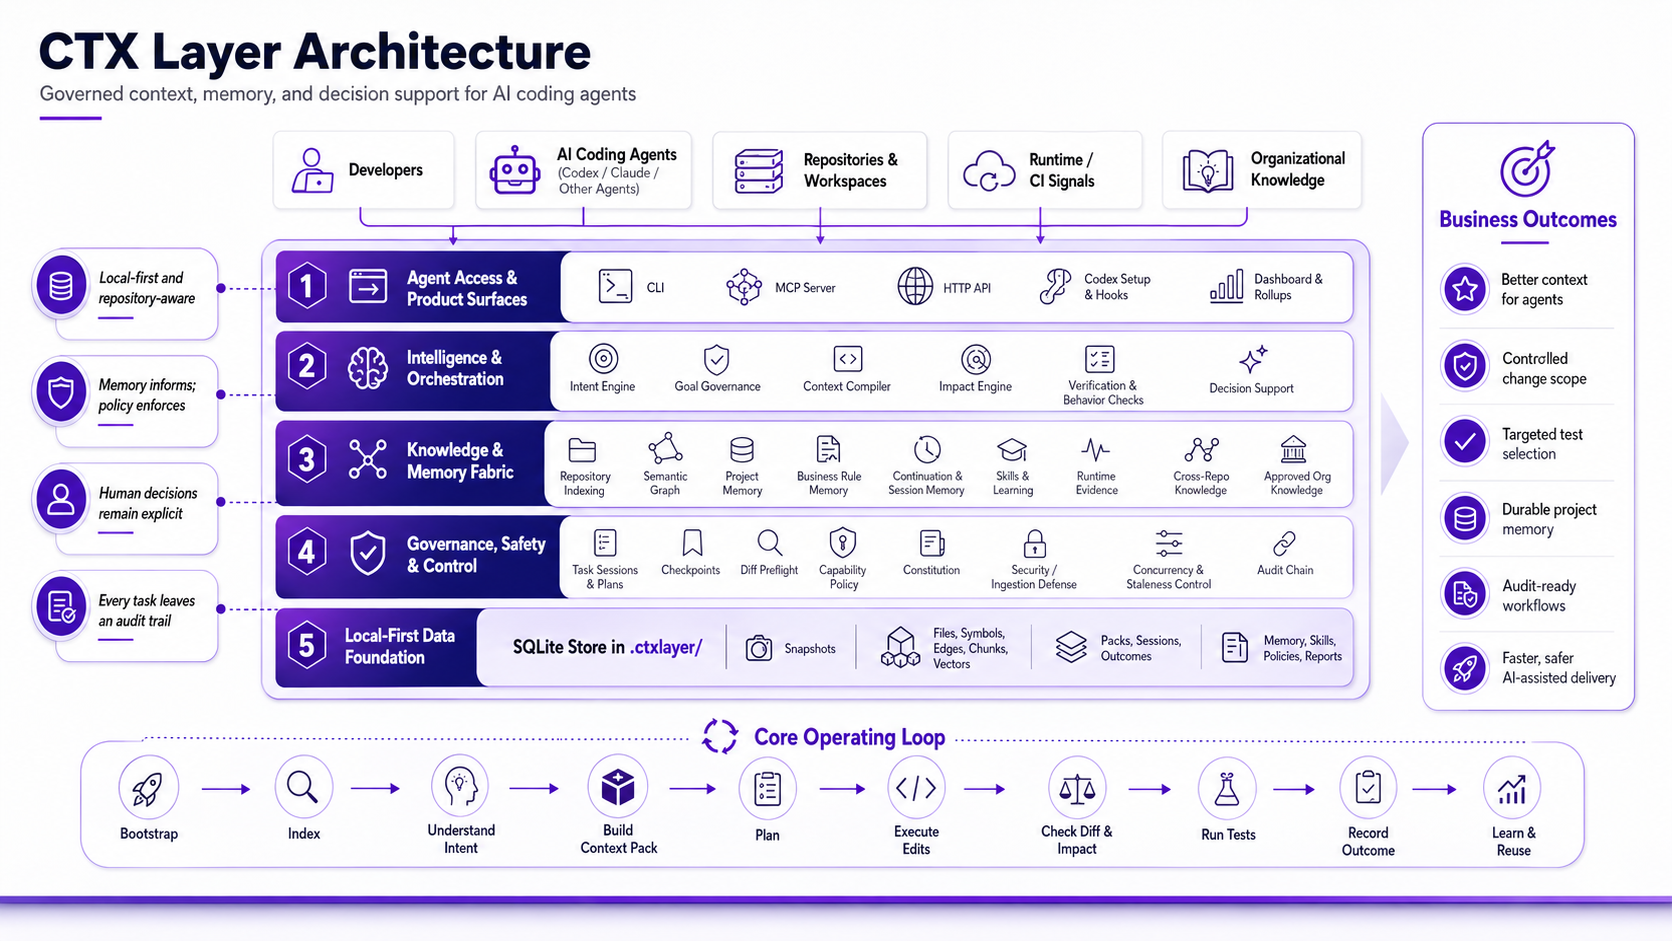
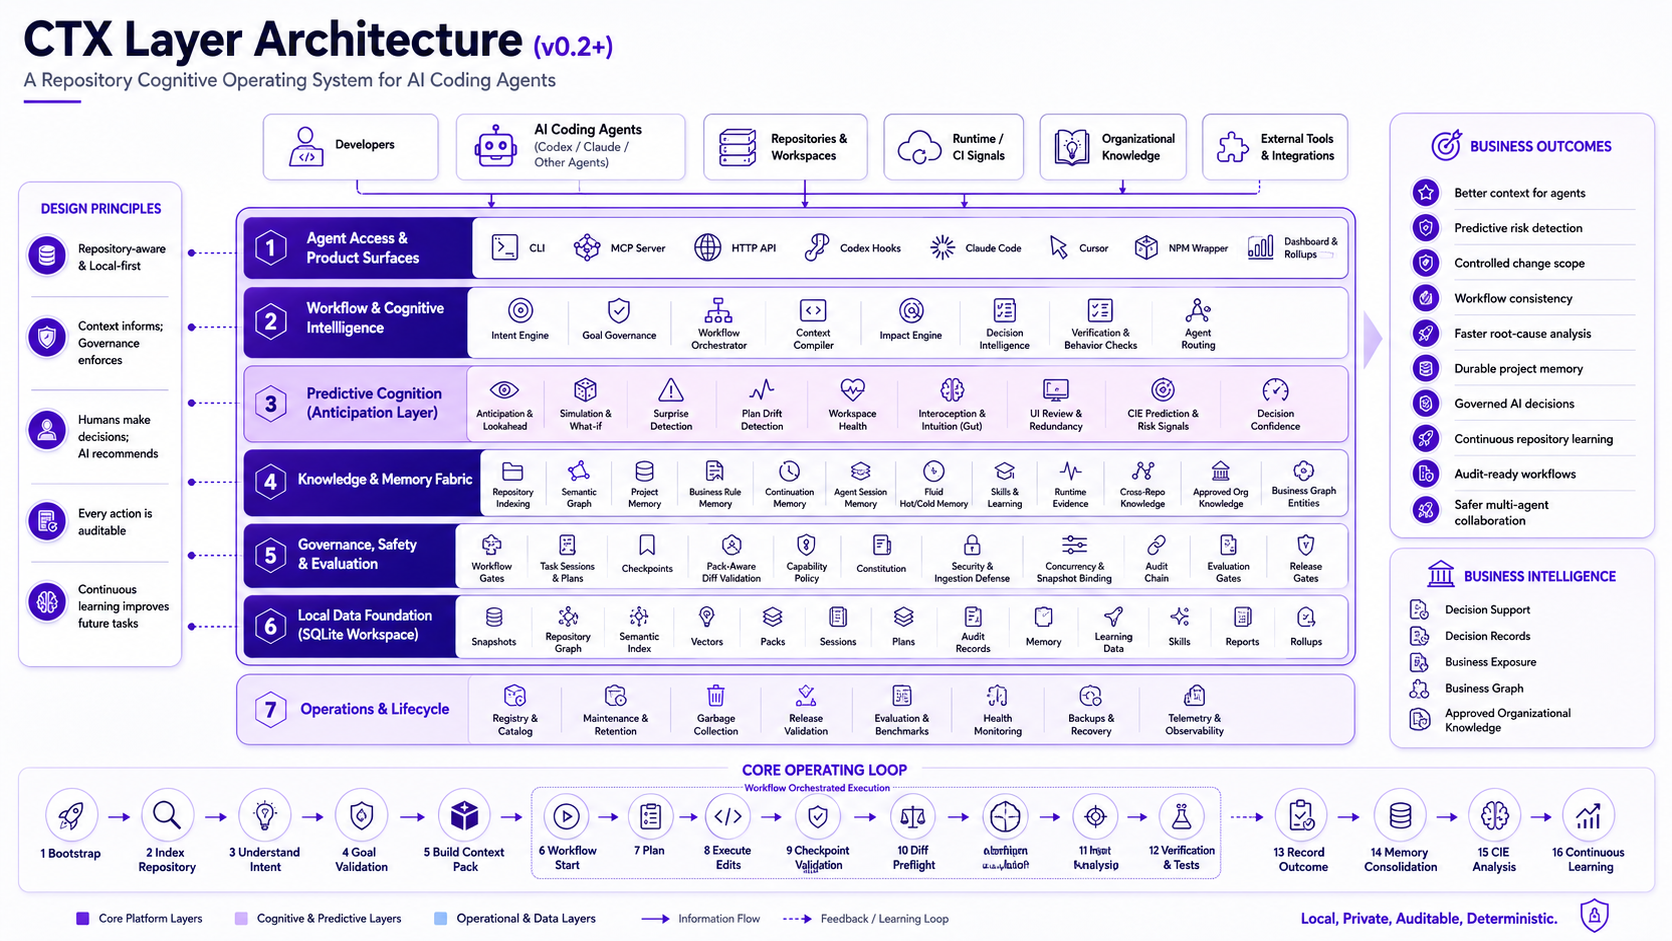
Reposition release README for AI coding agents

Changed region(s): [[0.0, 0.0, 1.0, 0.9862]]

diff --git a/README.md b/README.md
@@ -1,114 +1,139 @@
 # CTX Layer
 
-## The Governed Execution Layer for AI Coding Agents
+[![Release](https://img.shields.io/badge/release-0.2.0a8-blue)](https://github.com/abhilashsblai/ctxlayer-release/releases/tag/v0.2.0a8)
+[![Python](https://img.shields.io/badge/python-%3E%3D3.11-blue)](#requirements)
+[![License](https://img.shields.io/badge/license-proprietary-lightgrey)](LICENSE)
+[![MCP](https://img.shields.io/badge/MCP-ready-6f42c1)](#mcp-integration)
+[![AGENTS.md](https://img.shields.io/badge/AGENTS.md-supported-6f42c1)](#daily-agent-workflow)
+[![Local First](https://img.shields.io/badge/local--first-SQLite-2ea44f)](#safety-notes)
 
-CTX Layer transforms AI coding agents from code generators into governed
-software engineering systems.
+CTX Layer is a Repository Cognitive Operating System for AI coding agents.
+
+It gives Codex, Claude Code, Cursor, Gemini CLI, MCP clients, and other
+software engineering agents long-term repository memory, workflow
+orchestration, deterministic governance, impact analysis, predictive cognition,
+and continuous learning.
 
 Copyright (c) 2026 Abhilash Pillai. All rights reserved.
 
 Developed by Abhilash Pillai.
 
-CTX Layer sits between an AI coding agent and your codebase.
-
-It provides context intelligence, workflow orchestration, execution governance,
-impact awareness, organizational intelligence, auditability, and continuous
-improvement.
-
-Without CTX Layer, AI agents generate code.
-
-With CTX Layer, AI agents operate as governed software engineers.
-
-CTX Layer is not a coding agent. It is a governed execution layer that augments
-coding agents such as Codex, Claude Code, Cursor, Aider, and MCP-enabled agent
-systems. The agent writes code; CTX Layer governs how the agent understands,
-plans, validates, learns, and improves.
-
-![CTX Layer governed execution architecture](docs/assets/CTXLayer.png)
-
-## Why This Matters
-
-Traditional agent execution is simple:
-
-```text
-Prompt
-  |
-  v
-Agent
-  |
-  v
-Code
-```
-
-CTX Layer adds the governed execution layer that autonomous coding workflows
-need:
-
-```text
-Prompt
-  |
-  v
-CTX Layer
-  |-- Workflow Orchestration
-  |-- Context Intelligence
-  |-- Project and Organizational Intelligence
-  |-- Execution Governance
-  |-- Impact Analysis
-  |-- Skill Library
-  |-- Audit Trail
-  |-- Continuous Learning
-  `-- Decision Support
-  |
-  v
-Agent
-  |
-  v
-Code
-```
-
-## What Makes It Different
-
-Most AI coding systems stop after execution. CTX Layer continues:
-
-```text
-Agent executes
-  |
-  v
-Outcome captured
-  |
-  v
-Mistake, success, or missing gate analyzed
-  |
-  v
-Root cause and workflow state identified
-  |
-  v
-Intervention, gate, or skill update created
-  |
-  v
-Future behavior improved
-```
-
-This makes CTX Layer a governed coding-agent platform with a built-in workflow
-router and cognitive improvement loop.
-
 ## Why CTX Layer Exists
 
-| Capability | Standard coding agent | CTX Layer |
-| --- | --- | --- |
-| Code generation | Yes | Yes |
-| Context management | Limited | Yes |
-| Workflow routing | No | Yes |
-| Execution governance | Limited | Yes |
-| Impact analysis | Limited | Yes |
-| Project intelligence | Limited | Yes |
-| Audit trail | Rare | Yes |
-| Root-cause analysis | No | Yes |
-| Continuous improvement | No | Yes |
-| Organizational knowledge | No | Yes |
+AI coding agents are powerful, but the raw workflow is still mostly stateless.
+Agents can read files and write patches, yet they do not automatically remember
+project decisions, understand approved business rules, know which tests protect
+a behavior, detect scope drift, or learn from previous tasks.
 
-CTX Layer exists because autonomous coding is not only a generation problem.
-Teams need agents that can operate inside boundaries, explain what happened,
-reuse project knowledge, learn from outcomes, and improve across workstreams.
+CTX Layer gives the repository cognition. It sits beside your codebase, builds a
+local-first model of repository context, and turns an ad hoc agent session into
+a governed engineering loop:
+
+> Before an agent edits this repository, what does it need to know, what must it
+> avoid, what changed, what should be tested, and what should be remembered?
+
+![CTX Layer Architecture](docs/assets/CTXLayer.png)
+
+## Install In Minutes
+
+Install or upgrade from the current release wheel:
+
+```powershell
+python -m pip install --upgrade "https://github.com/abhilashsblai/ctxlayer-release/releases/download/v0.2.0a8/ctxlayer-0.2.0a8-py3-none-any.whl"
+ctxlayer --version
+ctxlayer --repo . setup --agents codex,claude,cursor --install-hooks --configure-mcp --absolute-mcp-repo
+ctxlayer --repo . workflow start --task "make a focused change" --path src/app.py
+ctxlayer --repo . workflow next --task-session-id <task_session_id>
+```
+
+## Without CTX Layer Vs With CTX Layer
+
+| Raw AI coding agent workflow | With CTX Layer |
+| --- | --- |
+| Reads whatever files it happens to find | Deterministic Context Packs |
+| Forgets prior decisions and gotchas | Durable Repository Memory |
+| Starts from a prompt, not a workflow | AI Agent Workflow Engine |
+| Changes can drift outside intended scope | Pack-aware Diff Validation |
+| Test choice is mostly manual or guessed | Impact Engine and linked tests |
+| Business rules live in scattered docs | Project Rule Extraction and approval |
+| Risk is discovered late in review | Predictive Cognition and surprise signals |
+| Governance is inconsistent across agents | Capability Policies and checkpoints |
+| Outcomes disappear after the chat ends | Audited task sessions and outcome memory |
+| Repeated mistakes stay repeated | Cognitive Improvement Engine |
+
+## Who This Is For
+
+- Codex users who want repository memory and a repeatable local task loop.
+- Claude Code, Cursor, Gemini CLI, and MCP users who need shared repository
+  context across tools.
+- AI engineering teams building agentic software engineering workflows.
+- Enterprise software teams that need auditability, policy checks, and
+  deterministic governance around AI-assisted changes.
+- Open source maintainers who want coding agents to respect project rules,
+  intended scope, and test impact.
+
+## Problems CTX Layer Solves
+
+- Agent forgets project decisions.
+- Agent reads hundreds of irrelevant files.
+- Agent misses business rules hidden in tests, docs, constants, PRs, or
+  incidents.
+- Agent changes files outside the intended scope.
+- Agent does not know which tests protect a behavior.
+- Agent cannot explain why a pack, plan, checkpoint, or outcome happened.
+- Agent has no durable memory after the session ends.
+- Agent repeats mistakes because outcomes are not converted into future context.
+
+## Quick Tour
+
+1. Bootstrap the repository with agent instructions, MCP config, and local
+   policy files.
+2. Index the codebase into snapshots, symbols, chunks, imports, tests,
+   ownership signals, and local vectors.
+3. Build a task-specific Context Pack for Codex, Claude Code, Cursor, or
+   another MCP-compatible coding agent.
+4. Create a structured plan with intended files, capabilities, risk, and tests.
+5. Execute edits while CTX Layer records checkpoints against the active plan.
+6. Run pack-aware diff validation and impact analysis before declaring success.
+7. Run the recommended tests where practical.
+8. Record the outcome so future agents can recall the decision, gotcha, or
+   failure lesson.
+9. Let the Cognitive Improvement Engine analyze repeated patterns, cognitive
+   debt, prediction quality, and learning decay.
+
+## Works With
+
+| Surface | Status |
+| --- | --- |
+| Codex | CLI, MCP config, hooks, AGENTS.md workflow, child-agent coordination |
+| Claude Code | MCP setup and shared CTX workflow contract |
+| Cursor | MCP setup and shared repository context |
+| MCP | Local stdio server for agent tools |
+| HTTP | Local API and dashboard data |
+| SQLite | Workspace-scoped local-first storage |
+| AGENTS.md | Repository workflow contract for coding agents |
+| npm/npx | Local wrapper for Python engine commands |
+
+## Core Capabilities
+
+- **Repository memory:** Resume interrupted work, recall decisions, preserve
+  conventions, and reuse verified lessons.
+- **Context engineering:** Serve bounded, deterministic Context Packs instead of
+  relying on prompt stuffing or random file search.
+- **AI agent workflow engine:** Drive `workflow start` and `workflow next` from
+  durable evidence rather than from agent memory.
+- **Impact analysis:** Identify affected files, linked tests, critical paths,
+  and pack-aware scope risk.
+- **Goal validation and governance:** Check plans, capabilities, checkpoints,
+  constitutions, hooks, and CI policy surfaces.
+- **Project rule extraction:** Extract candidate business rules from code,
+  tests, docs, incidents, PRs, and runtime evidence, then require approval
+  before serving them as authoritative context.
+- **Predictive cognition:** Surface surprise scoring, lookahead, consequence
+  simulation, interoception, and cross-repo transfer as conservative advisory
+  signals.
+- **Continuous learning:** Convert task outcomes, failures, and repeated
+  patterns into safer future repository behavior.
 
 ## Current Release
 